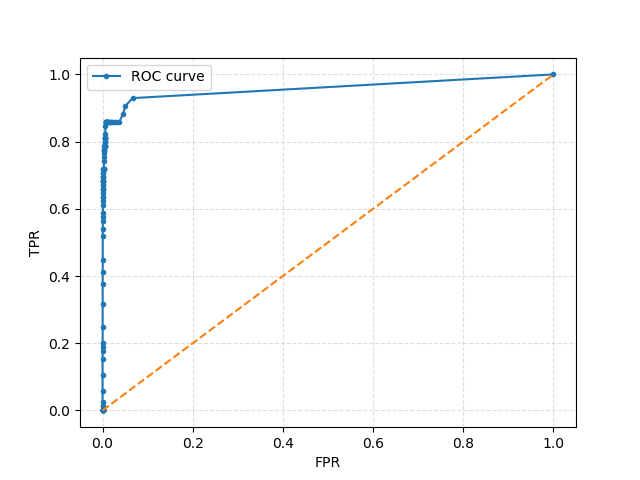
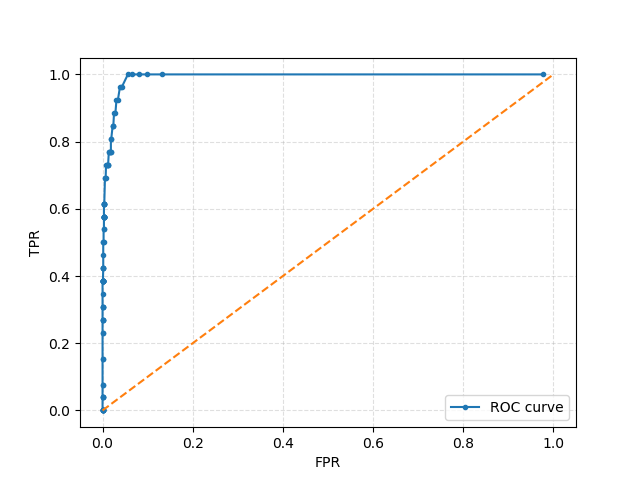
New ROC curves

Changed region(s): [[0.125, 0.125, 0.875, 0.75], [0.6875, 0.8125, 0.9062, 0.875], [0.1562, 0.7812, 0.1875, 0.8438]]

diff --git a/roc.py b/roc.py
@@ -17,6 +17,8 @@ from sklearn.metrics import roc_curve
 from sklearn.metrics import roc_auc_score, accuracy_score
 from matplotlib import pyplot
 
+os.environ['TF_KERAS'] = '1' #environment variable for RAdam
+from keras_radam import RAdam
 
 #np.set_printoptions(suppress=True)
 # Initialize session
@@ -28,15 +30,10 @@ bml.initialize_vars(sess)
 #Load custom layers such as BertLayer
 model = tf.keras.models.load_model("least_loss_model_two-stage.h5",
 custom_objects={'BertLayer': bml.BertLayer, 'precision_m': bml.precision_m,
-'recall_m': bml.recall_m})
+'recall_m': bml.recall_m, 'RAdam': RAdam})
 #model = load_model("bert_model.h5", custom_objects={'BertLayer': bml.BertLayer})
 
 print("BERT model succesfully loaded.")
-
-#Single category metrics
-
-
-
 
 #Take datasets to be the tweets csv
 train_df, test_df = bml.load_datasets_csv("modified_tweets.csv")
@@ -63,8 +60,6 @@ examples = bml.convert_text_to_examples(test_text, test_label)
 )
 
 pred = model.predict([test_input_ids, test_input_masks, test_segment_ids])
-
-
 #FPR-TPR curves for each class
 x = np.arange(-0.5,0.51,0.01) #x ranges from 0 to 1 in increments of 0.05
 for y in range(0, 13):
